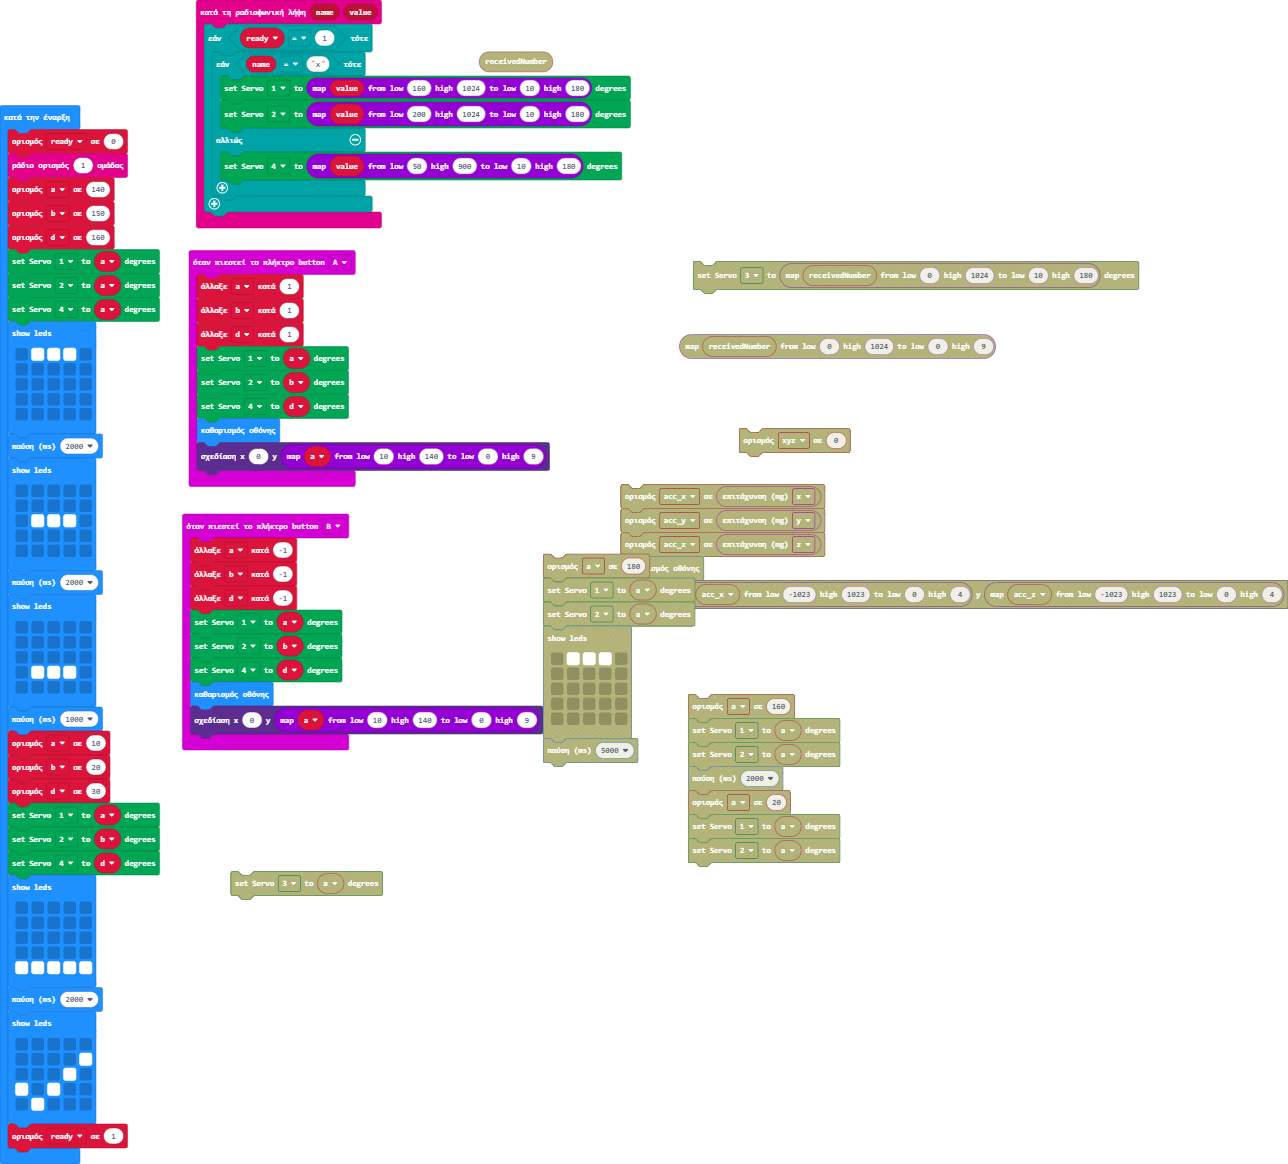
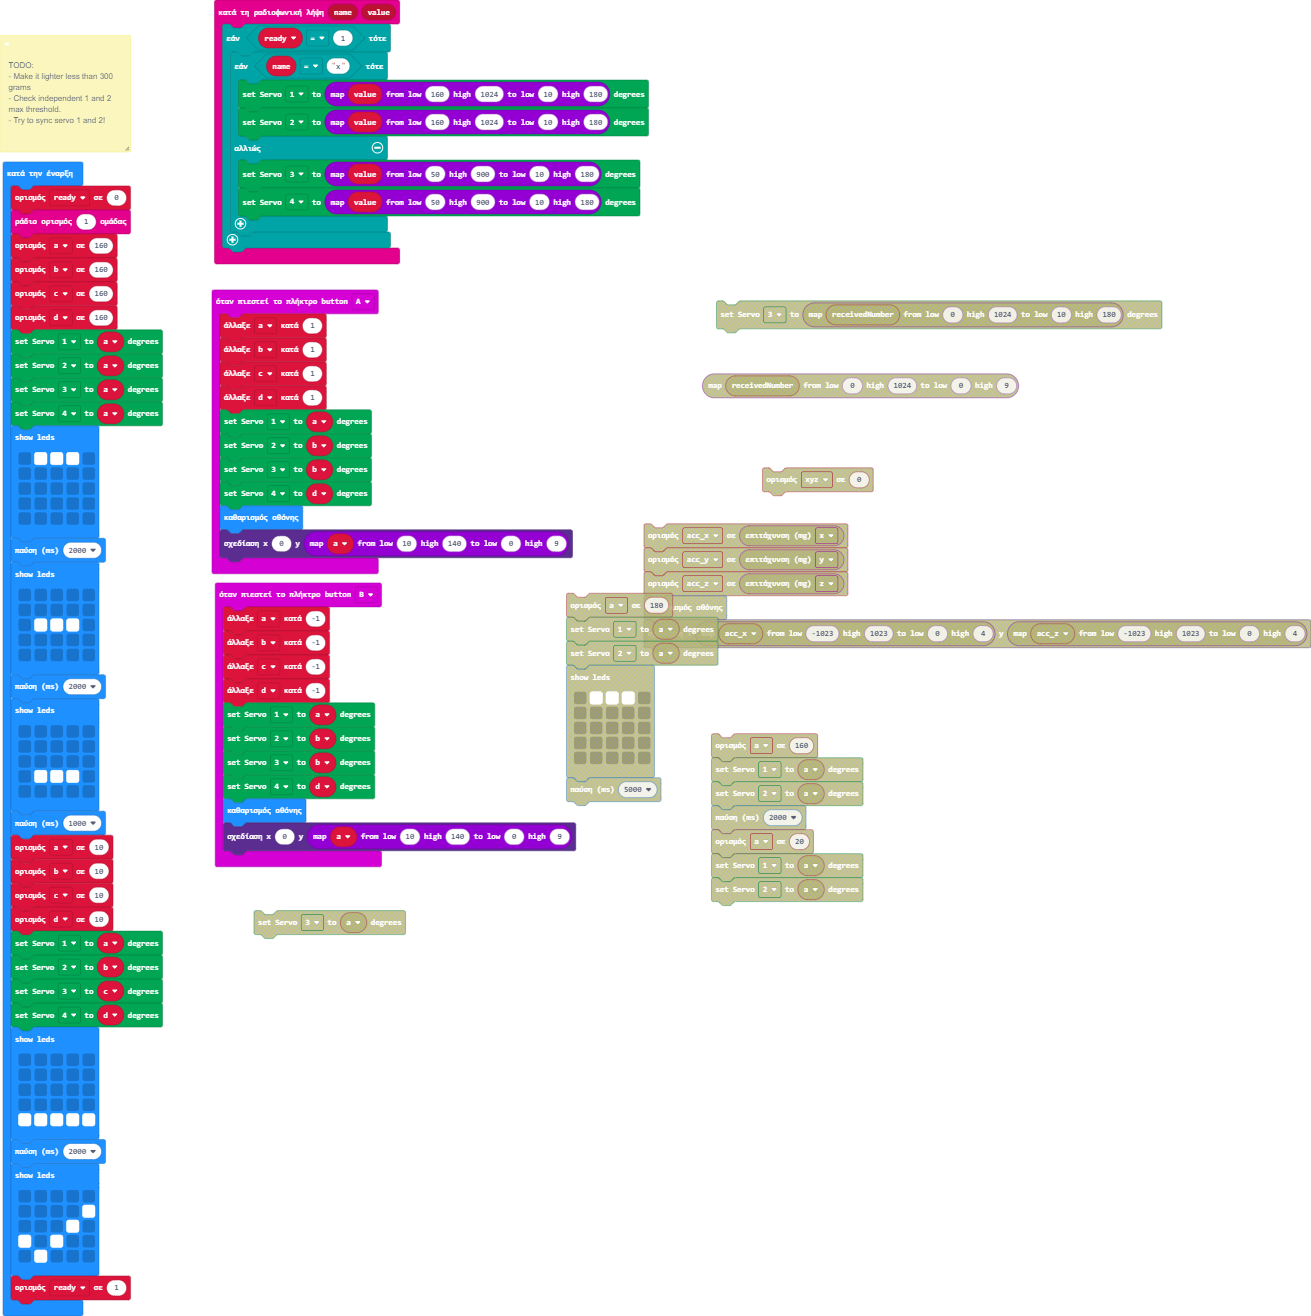
Added 4th motor

Changed region(s): [[0.0, 0.0, 1.0, 1.0], [0.528, 0.2165, 0.9006, 0.3093], [0.1553, 0.7423, 0.3106, 0.7732]]

diff --git a/main.ts b/main.ts
@@ -1,9 +1,11 @@
 input.onButtonPressed(Button.A, function () {
     a += 1
     b += 1
+    c += 1
     d += 1
     Kitronik_Robotics_Board.servoWrite(Kitronik_Robotics_Board.Servos.Servo1, a)
     Kitronik_Robotics_Board.servoWrite(Kitronik_Robotics_Board.Servos.Servo2, b)
+    Kitronik_Robotics_Board.servoWrite(Kitronik_Robotics_Board.Servos.Servo3, b)
     Kitronik_Robotics_Board.servoWrite(Kitronik_Robotics_Board.Servos.Servo4, d)
     basic.clearScreen()
     led.plot(0, Math.map(a, 10, 140, 0, 9))
@@ -11,9 +13,11 @@ input.onButtonPressed(Button.A, function () {
 input.onButtonPressed(Button.B, function () {
     a += -1
     b += -1
+    c += -1
     d += -1
     Kitronik_Robotics_Board.servoWrite(Kitronik_Robotics_Board.Servos.Servo1, a)
     Kitronik_Robotics_Board.servoWrite(Kitronik_Robotics_Board.Servos.Servo2, b)
+    Kitronik_Robotics_Board.servoWrite(Kitronik_Robotics_Board.Servos.Servo3, b)
     Kitronik_Robotics_Board.servoWrite(Kitronik_Robotics_Board.Servos.Servo4, d)
     basic.clearScreen()
     led.plot(0, Math.map(a, 10, 140, 0, 9))
@@ -22,23 +26,35 @@ radio.onReceivedValue(function (name, value) {
     if (ready == 1) {
         if (name == "x") {
             Kitronik_Robotics_Board.servoWrite(Kitronik_Robotics_Board.Servos.Servo1, Math.map(value, 160, 1024, 10, 180))
-            Kitronik_Robotics_Board.servoWrite(Kitronik_Robotics_Board.Servos.Servo2, Math.map(value, 200, 1024, 10, 180))
+            Kitronik_Robotics_Board.servoWrite(Kitronik_Robotics_Board.Servos.Servo2, Math.map(value, 160, 1024, 10, 180))
         } else {
+            Kitronik_Robotics_Board.servoWrite(Kitronik_Robotics_Board.Servos.Servo3, Math.map(value, 50, 900, 10, 180))
             Kitronik_Robotics_Board.servoWrite(Kitronik_Robotics_Board.Servos.Servo4, Math.map(value, 50, 900, 10, 180))
         }
     }
 })
+/**
+ * TODO: 
+ * 
+ * - Make it lighter less than 300 grams
+ * 
+ * - Check independent 1 and 2 max threshold.
+ * 
+ * - Try to sync servo 1 and 2!
+ */
 let d = 0
 let b = 0
 let a = 0
 let ready = 0
 ready = 0
 radio.setGroup(1)
-a = 140
-b = 150
+a = 160
+b = 160
+let c = 160
 d = 160
 Kitronik_Robotics_Board.servoWrite(Kitronik_Robotics_Board.Servos.Servo1, a)
 Kitronik_Robotics_Board.servoWrite(Kitronik_Robotics_Board.Servos.Servo2, a)
+Kitronik_Robotics_Board.servoWrite(Kitronik_Robotics_Board.Servos.Servo3, a)
 Kitronik_Robotics_Board.servoWrite(Kitronik_Robotics_Board.Servos.Servo4, a)
 basic.showLeds(`
     . # # # .
@@ -65,10 +81,12 @@ basic.showLeds(`
     `)
 basic.pause(1000)
 a = 10
-b = 20
-d = 30
+b = 10
+c = 10
+d = 10
 Kitronik_Robotics_Board.servoWrite(Kitronik_Robotics_Board.Servos.Servo1, a)
 Kitronik_Robotics_Board.servoWrite(Kitronik_Robotics_Board.Servos.Servo2, b)
+Kitronik_Robotics_Board.servoWrite(Kitronik_Robotics_Board.Servos.Servo3, c)
 Kitronik_Robotics_Board.servoWrite(Kitronik_Robotics_Board.Servos.Servo4, d)
 basic.showLeds(`
     . . . . .
